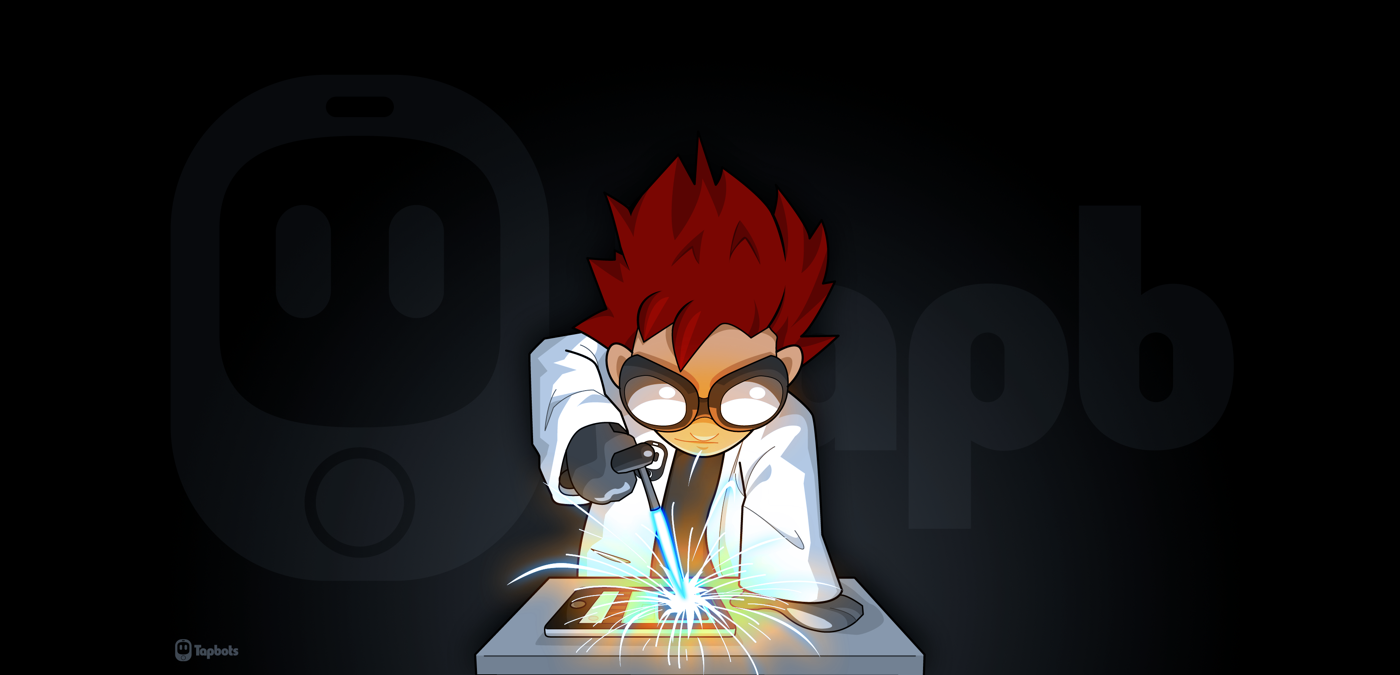
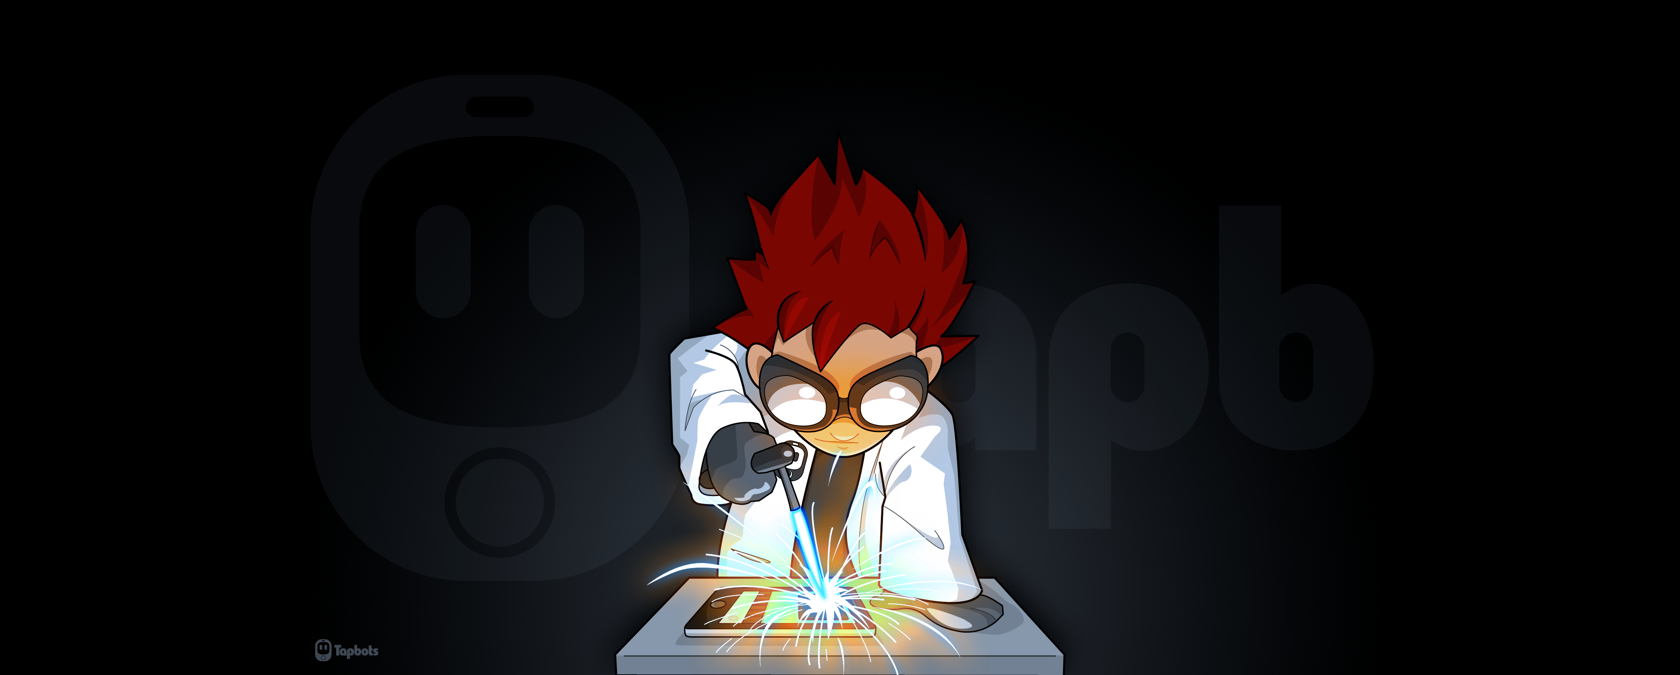
Dithered and added reveal.js submodule again

Changed region(s): [[0.3379, 0.2178, 0.6757, 1.0], [0.1229, 0.9333, 0.215, 0.9956]]

diff --git a/html/2021-11-17_DataversePanel.html b/html/2021-11-17_DataversePanel.html
@@ -6,13 +6,13 @@
 
 		<title>Dataverse Panel Discussion</title>
 
-		<link rel="stylesheet" href="https://plesubc.github.io/reveal.js/dist/reset.css">
-		<link rel="stylesheet" href="https://plesubc.github.io/reveal.js/dist/reveal.css">
+		<link rel="stylesheet" href="../reveal.js/dist/reset.css">
+		<link rel="stylesheet" href="../reveal.js/dist/reveal.css">
 		<link rel="stylesheet" href="custom/ubc-no-logo.css">
 		<!--<link rel="stylesheet" href="custom/ubc-modified.css">-->
 
 		<!-- Theme used for syntax highlighted code -->
-		<link rel="stylesheet" href="https://plesubc.github.io/reveal.js/plugin/highlight/monokai.css" id="highlight-theme">
+		<link rel="stylesheet" href="../reveal.js/plugin/highlight/monokai.css" id="highlight-theme">
 		
 	</head>
 	<body>
@@ -29,10 +29,10 @@
 			</div>
 		</div>
 
-		<script src="https://plesubc.github.io/reveal.js/dist/reveal.js"></script>
-		<script src="https://plesubc.github.io/reveal.js/plugin/notes/notes.js"></script>
-		<script src="https://plesubc.github.io/reveal.js/plugin/markdown/markdown.js"></script>
-		<script src="https://plesubc.github.io/reveal.js/plugin/highlight/highlight.js"></script>
+		<script src="../reveal.js/dist/reveal.js"></script>
+		<script src="../reveal.js/plugin/notes/notes.js"></script>
+		<script src="../reveal.js/plugin/markdown/markdown.js"></script>
+		<script src="../reveal.js/plugin/highlight/highlight.js"></script>
 		<script>
 			// More info about initialization & config:
 			// - https://revealjs.com/initialization/
@@ -56,5 +56,12 @@
 			//Reveal.configure({ pdfMaxPagesPerSlide: 1 });
 			//Reveal.configure({ showNotes: 'separate-page' });
 		</script>
+		<script>
+		var link = document.createElement( 'link' );
+		link.rel = 'stylesheet';
+		link.type = 'text/css';
+		link.href = window.location.search.match( /print-pdf/gi ) ? '../reveal.js/css/print/pdf.css' : '../reveal.js/css/print/paper.css';
+		document.getElementsByTagName( 'head' )[0].appendChild( link );
+	</script>
 	</body>
 </html>

diff --git a/html/2021-05-03_d2d_UBCRDM.html b/html/2021-05-03_d2d_UBCRDM.html
@@ -6,12 +6,12 @@
 
 		<title>Dryad2dataverse</title>
 
-		<link rel="stylesheet" href="https://plesubc.github.io/reveal.js/dist/reset.css">
-		<link rel="stylesheet" href="https://plesubc.github.io/reveal.js/dist/reveal.css">
-		<link rel="stylesheet" href="https://plesubc.github.io/reveal.js/custom/ubc-modified.css">
+		<link rel="stylesheet" href="../reveal.js/dist/reset.css">
+		<link rel="stylesheet" href="../reveal.js/dist/reveal.css">
+		<link rel="stylesheet" href="../reveal.js/custom/ubc-modified.css">
 
 		<!-- Theme used for syntax highlighted code -->
-		<link rel="stylesheet" href="https://plesubc.github.io/reveal.js/plugin/highlight/monokai.css" id="highlight-theme">
+		<link rel="stylesheet" href="../reveal.js/plugin/highlight/monokai.css" id="highlight-theme">
 		
 	</head>
 	<body>
@@ -25,10 +25,10 @@
 			</div>
 		</div>
 
-		<script src="https://plesubc.github.io/reveal.js/dist/reveal.js"></script>
-		<script src="https://plesubc.github.io/reveal.js/plugin/notes/notes.js"></script>
-		<script src="https://plesubc.github.io/reveal.js/plugin/markdown/markdown.js"></script>
-		<script src="https://plesubc.github.io/reveal.js/plugin/highlight/highlight.js"></script>
+		<script src="../reveal.js/dist/reveal.js"></script>
+		<script src="../reveal.js/plugin/notes/notes.js"></script>
+		<script src="../reveal.js/plugin/markdown/markdown.js"></script>
+		<script src="../reveal.js/plugin/highlight/highlight.js"></script>
 		<script>
 			// More info about initialization & config:
 			// - https://revealjs.com/initialization/

diff --git a/html/2017-06-17_x_AbacusRDM_Presentation.html b/html/2017-06-17_x_AbacusRDM_Presentation.html
@@ -6,12 +6,12 @@
 
 		<title>Abacus and Dataverse for UBC Research Data</title>
 
-		<link rel="stylesheet" href="https://plesubc.github.io/reveal.js/dist/reset.css">
-		<link rel="stylesheet" href="https://plesubc.github.io/reveal.js/dist/reveal.css">
+		<link rel="stylesheet" href="../reveal.js/dist/reset.css">
+		<link rel="stylesheet" href="../reveal.js/dist/reveal.css">
 		<link rel="stylesheet" href="custom/UBCPresentation.css">
 
 		<!-- Theme used for syntax highlighted code -->
-		<link rel="stylesheet" href="https://plesubc.github.io/reveal.js/plugin/highlight/zenburn.css" id="highlight-theme">
+		<link rel="stylesheet" href="../reveal.js/plugin/highlight/zenburn.css" id="highlight-theme">
 	</head>
 	<body>
 		<div class="reveal">
@@ -24,10 +24,10 @@
 		</div>
 		</div>
 
-		<script src="https://plesubc.github.io/reveal.js/dist/reveal.js"></script>
-		<script src="https://plesubc.github.io/reveal.js/plugin/notes/notes.js"></script>
-		<script src="https://plesubc.github.io/reveal.js/plugin/markdown/markdown.js"></script>
-		<script src="https://plesubc.github.io/reveal.js/plugin/highlight/highlight.js"></script>
+		<script src="../reveal.js/dist/reveal.js"></script>
+		<script src="../reveal.js/plugin/notes/notes.js"></script>
+		<script src="../reveal.js/plugin/markdown/markdown.js"></script>
+		<script src="../reveal.js/plugin/highlight/highlight.js"></script>
 		<script>
 			// More info about initialization & config:
 			// - https://revealjs.com/initialization/

diff --git a/html/1_Blank_Presentation.html b/html/1_Blank_Presentation.html
@@ -6,13 +6,13 @@
 
 		<title>Presentation title</title>
 
-		<link rel="stylesheet" href="https://plesubc.github.io/reveal.js/dist/reset.css">
-		<link rel="stylesheet" href="https://plesubc.github.io/reveal.js/dist/reveal.css">
+		<link rel="stylesheet" href="../reveal.js/dist/reset.css">
+		<link rel="stylesheet" href="../reveal.js/dist/reveal.css">
 		<!-- Uses UBC theme -->
 		<link rel="stylesheet" href="custom/ubc-modified.css">
 
 		<!-- Theme used for syntax highlighted code -->
-		<link rel="stylesheet" href="https://plesubc.github.io/reveal.js/plugin/highlight/monokai.css" id="highlight-theme">
+		<link rel="stylesheet" href="../reveal.js/plugin/highlight/monokai.css" id="highlight-theme">
 		
 	</head>
 	<body>
@@ -25,10 +25,10 @@
 			</div>
 		</div>
 
-		<script src="https://plesubc.github.io/reveal.js/dist/reveal.js"></script>
-		<script src="https://plesubc.github.io/reveal.js/plugin/notes/notes.js"></script>
-		<script src="https://plesubc.github.io/reveal.js/plugin/markdown/markdown.js"></script>
-		<script src="https://plesubc.github.io/reveal.js/plugin/highlight/highlight.js"></script>
+		<script src="../reveal.js/dist/reveal.js"></script>
+		<script src="../reveal.js/plugin/notes/notes.js"></script>
+		<script src="../reveal.js/plugin/markdown/markdown.js"></script>
+		<script src="../reveal.js/plugin/highlight/highlight.js"></script>
 		<script>
 			// More info about initialization & config:
 			// - https://revealjs.com/initialization/

diff --git a/html/2021-05-27-_d2d_ScholarsPortal.html b/html/2021-05-27-_d2d_ScholarsPortal.html
@@ -6,12 +6,12 @@
 
 		<title>Dryad2dataverse</title>
 
-		<link rel="stylesheet" href="https://plesubc.github.io/reveal.js/dist/reset.css">
-		<link rel="stylesheet" href="https://plesubc.github.io/reveal.js/dist/reveal.css">
+		<link rel="stylesheet" href="../reveal.js/dist/reset.css">
+		<link rel="stylesheet" href="../reveal.js/dist/reveal.css">
 		<link rel="stylesheet" href="custom/ubc-modified.css">
 
 		<!-- Theme used for syntax highlighted code -->
-		<link rel="stylesheet" href="https://plesubc.github.io/reveal.js/plugin/highlight/monokai.css" id="highlight-theme">
+		<link rel="stylesheet" href="../reveal.js/plugin/highlight/monokai.css" id="highlight-theme">
 		
 	</head>
 	<body>
@@ -25,10 +25,10 @@
 			</div>
 		</div>
 
-		<script src="https://plesubc.github.io/reveal.js/dist/reveal.js"></script>
-		<script src="https://plesubc.github.io/reveal.js/plugin/notes/notes.js"></script>
-		<script src="https://plesubc.github.io/reveal.js/plugin/markdown/markdown.js"></script>
-		<script src="https://plesubc.github.io/reveal.js/plugin/highlight/highlight.js"></script>
+		<script src="../reveal.js/dist/reveal.js"></script>
+		<script src="../reveal.js/plugin/notes/notes.js"></script>
+		<script src="../reveal.js/plugin/markdown/markdown.js"></script>
+		<script src="../reveal.js/plugin/highlight/highlight.js"></script>
 		<script>
 			// More info about initialization & config:
 			// - https://revealjs.com/initialization/

diff --git a/html/custom/ubc-no-logo.css b/html/custom/ubc-no-logo.css
@@ -297,6 +297,7 @@ left: 1.5em; }
   border-color: #2a76dd;
   box-shadow: 0 0 20px rgba(0, 0, 0, 0.55); }
 
+
 /*********************************************
  * NAVIGATION CONTROLS
  *********************************************/

diff --git a/html/Markdown/2021-11-17-DataversePanel.md b/html/Markdown/2021-11-17-DataversePanel.md
@@ -2,8 +2,9 @@
 
 ![](Images/2021-11-17_Dataverse_Panel/worker.png)
 
-- Eugene Barsky and Paul Lesack, UBC Library
-- November 2021
+Eugene Barsky and Paul Lesack, UBC Library<!-- .element: style="text-align: left;"  -->   
+November 2021<!-- .element: style="text-align: left;"  --> 
+
 
 --- 
 
@@ -16,6 +17,9 @@
 - dryad2dataverse platform
     - Harmonizing data holdings
 
+Note:
+
+The presentation doesn't seem to follow this overview
  
 ---
 # Research Data 
@@ -33,8 +37,8 @@ Note:
 
 ---
 # Research Data 
-- Hired a PhD student to do data curation
-- Took a lot of time and resources, data dictionaries, recoding
+- Hired a PhD student to curate the data sets
+- Took a lot of time and resources, creating data dictionaries, recoding
 - Data management vs. data curation
 
 
@@ -119,7 +123,7 @@ Note:
 - A platform agnostic tool which harvests material from Dryad
 - Can be automated if required
 - Requires zero researcher effort
-- Associated python package can be used for other metadata conversions
+- Associated Python 3 package can be used for other metadata conversions
 
 
 Note:

diff --git a/html/Markdown/2021-05-03-dryad2dataverse_UBCRDM.md b/html/Markdown/2021-05-03-dryad2dataverse_UBCRDM.md
@@ -4,7 +4,7 @@
 
 ## Where 
 
-![Dryad2dataverse Image](/Images/dryad2dataverseLogo.png)
+![Dryad2dataverse Image](Images/dryad2dataverseLogo.png)
 
 * Source: [github.com/ubc-library-rc/dryad2dataverse](https://github.com/ubc-library-rc/dryad2dataverse)
 * Documentation: [ubc-library-rc.github.io/dryad2dataverse/](https://ubc-library-rc.github.io/dryad2dataverse/)

diff --git a/html/Markdown/2021-05-27-d2d_ScholarsPortal.md b/html/Markdown/2021-05-27-d2d_ScholarsPortal.md
@@ -1,5 +1,5 @@
 
-![Dryad2dataverse Image](/Images/dryad2dataverseLogo.png)
+![Dryad2dataverse Image](Images/dryad2dataverseLogo.png)
 
 * Source: [github.com/ubc-library-rc/dryad2dataverse](https://github.com/ubc-library-rc/dryad2dataverse)
 * Documentation: [ubc-library-rc.github.io/dryad2dataverse/](https://ubc-library-rc.github.io/dryad2dataverse/)

diff --git a/html/Markdown/markdown_file.md b/html/Markdown/markdown_file.md
@@ -1,0 +1,12 @@
+# Veni Vidi Vici
+
+---
+
+### Sit Amet
+Lorem ipsum dolor
+
+
+Note:
+Presenter notes
+
+---
